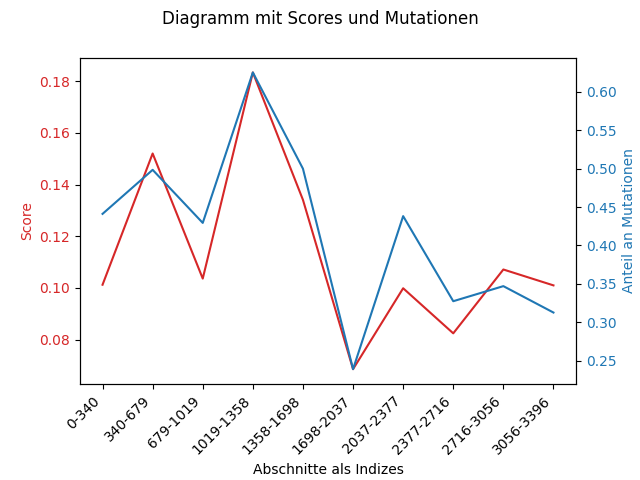
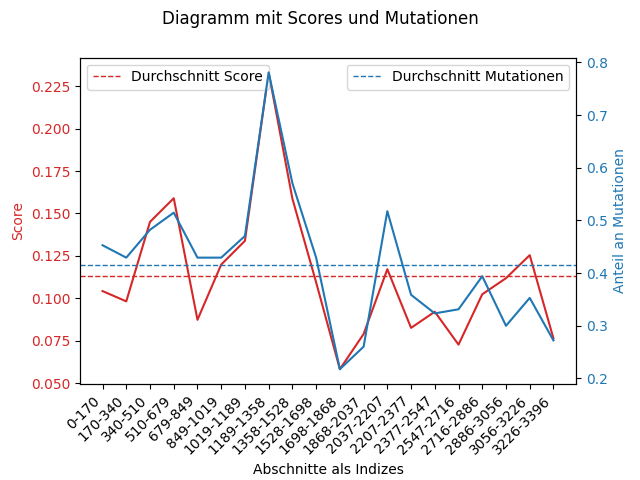
add new plots to kile

diff --git a/Thesis/Bachelorarbeit.tex b/Thesis/Bachelorarbeit.tex
@@ -393,6 +393,9 @@
 %
 % Replace the whole text chapter with the main text of your thesis! 
 
+\chapter{Theoretische Grundlagen}
+
+
 \chapter{Material und Methoden}%: Document Setup and Document Structure}
 \label{chapter-use}
 
@@ -431,10 +434,39 @@ Im chemischen Kontext beziehen sich "`polar requirements"' auf die spezifischen 
 T-Coffee (Tree-based Consistency Objective Function for Alignment Evaluation) is a multiple sequence alignment tool widely used in bioinformatics for aligning DNA, RNA, and protein sequences. T-Coffee works by employing an alignment strategy combined with a consistency-based scoring function. The algorithm for T-Coffee is primarily described in the original publication \citetitle{poirot_tcoffeeigs_2003} \cite{poirot_tcoffeeigs_2003}. The algorithm has the following main steps. T-Coffee first generates all possible pairwise alignments between the input sequences using global and local alignment methods. It then builds a primary library of alignment information from these pairwise alignments, assigning weights to each aligned residue pair based on their consistency across different alignments. The primary library is extended by incorporating transitive alignments, which helps in capturing indirect relationships between sequences. Using the extended library, T-Coffee constructs a guide tree and performs a progressive alignment, aligning the most similar sequences first and gradually adding more distant sequences. The initial alignment is iteratively refined to improve its overall quality and consistency.
 T-Coffee is known for its high accuracy, especially when dealing with short sequences. It has been benchmarked against other alignment tools and has shown to produce alignments with accuracy comparable to or better than other methods like MUSCLE \cite{Edgar2004MUSCLEL}.
 
-\chapter{Die Pipeline}
+
+\chapter{Ergebnisse}
 Um die Mutationen zu z\"ahlen nutzen wir aktuell einen sehr naiven Ansatz, indem wir f\"ur alle Sequenzen nur schauen, ob an einer Stelle alle Aminos\"auren gleich sind oder ob es mindestens eine Sequenz gibt, in der es eine andere Aminos\"aure an der Stelle gibt. Wir z\"ahlen nicht, wie viele verschiedene Aminos\"auren es an der Stelle gibt. Wenn wir also eine Mutation z\"ahlen, meine wir, dass an der jeweiligen Stelle mindestens eine Sequenz eine andere Aminos\"aure aufweist, als die Aminos\"aure in der ersten Sequenz. Wir berechen die Anzahl an Mutationen und zeigen diese dann anteilig f\"ur die L\"ange der jeweiligen Sequenz an. Wir berechnen also, verh\"altnism\"a\ss{}ig, an wie vielen Stellen die Sequenz mutiert ist.
 
 Bei der Berechnung der Scores schauen wir immer nach den Extremwerten, also dem minimalen Wert und dem maximalen Wert, die die Aminos\"auren bei den polar requirements, bzw. bei der Hydropathie erreichen. Da auch gaps einen Wert vergeben bekommen (immer den mittleren Wert \"uber alle Werte der beiden Skalen), kann es dazu kommen, dass sich hierdurch an manchen Stellen extremere Werte aufgezeichnet werden, als wenn man nur die tats\"achlich existierenden Aminos\"auren an der jeweiligen Stelle vergleicht. Man muss dabei aber bedenken, dass gaps eine Folge von Mutationen sind und somit auch bei der Berechnung des Scores beachtet werden k\"onnen. Ob dies jedoch sinnvoll ist, bei der Berechnung der Scores und nicht bei der Mutationsz\"ahlung ist fraglich. 
+
+\begin{figure}[htpb]
+  \centering
+  \includegraphics[scale=0.75]{Images/Diagramm_Mutationen_im_Dengue_virus.png}
+  \caption{Mutationen im Dengue virus}
+  \label{fig:Dengue_virus_mutations}
+\end{figure}
+
+\begin{figure}[htpb]
+  \centering
+  \includegraphics[scale=0.75]{Images/Diagramm_Polar_requirements_im_Dengue_virus.png}
+  \caption{Polar requirements im Dengue virus}
+  \label{fig:Dengue_virus_polar_requirements}
+\end{figure}
+
+\begin{figure}[htpb]
+  \centering
+  \includegraphics[scale=0.75]{Images/Diagramm_Hydropathie_im_Dengue_virus.png}
+  \caption{Hydropathie im Dengue virus}
+  \label{fig:Dengue_virus_hydropathy}
+\end{figure}
+
+\begin{figure}[htpb]
+  \centering
+  \includegraphics[scale=0.75]{Images/Diagramm_Scores_im_Dengue_virus.png}
+  \caption{Scores im Dengue virus}
+  \label{fig:Dengue_virus_scores}
+\end{figure}
 
 \begin{figure}[htpb]
   \centering
@@ -445,10 +477,21 @@ Bei der Berechnung der Scores schauen wir immer nach den Extremwerten, also dem 
 
 \begin{figure}[htpb]
   \centering
+  \includegraphics[scale=0.75]{Images/Diagramm_Scores_und_Mutationen_Dengue_viren_Bereiche_random.png}
+  \caption{Diagramm: Scores und Mutationen Dengue viren: automatische Auteilung der Sequenzen in 10 gleich gro\ss{}e Bereiche mit zuf\"alliger Permutation des Dengue viruses mit 1000 Vertauschungen}
+  \label{fig:Dengue_virus_scores_and_mutations_bereiche_random}
+\end{figure}
+
+\begin{figure}[htpb]
+  \centering
   \includegraphics[scale=0.75]{Images/Diagramm_Scores_und_Mutationen_Dengue_viren_Namen.png}
   \caption{Diagramm: Scores und Mutationen Dengue viren: Auteilung nach Proteinen/ Bereichen}
   \label{fig:Dengue_virus_scores_and_mutations_namen}
 \end{figure}
+
+
+\chapter{Diskussion}
+
 
 \chapter{Zusammenfassung und Ausblick}
 % In a German thesis write: \subsection{Zusammenfassung und Ausblick}

diff --git a/Biopython Test/sequence_analysis.py b/Biopython Test/sequence_analysis.py
@@ -554,7 +554,8 @@ plt.show()
 
 
 # plots mit random Sequenzverteilung und 20 Abschnitten (kombinierte Graphik mit Scores und Mutations; naiver Ansatz)
-random_sequence_permutation("aligned_polyprotein_dengue_virus.fasta", "fasta", 1000, "random_aligned_polyprotein_dengue_virus.fasta")
+outer_scope_number_of_swaps = 1000
+random_sequence_permutation("aligned_polyprotein_dengue_virus.fasta", "fasta", outer_scope_number_of_swaps, "random_aligned_polyprotein_dengue_virus.fasta")
 outer_scope_amount_of_sequences = 20
 outer_scope_sequence_length = calculate_sequence_length("random_aligned_polyprotein_dengue_virus.fasta")
 result_automatic_sequence_sections = automatic_sequence_sections(outer_scope_sequence_length, outer_scope_amount_of_sequences)
